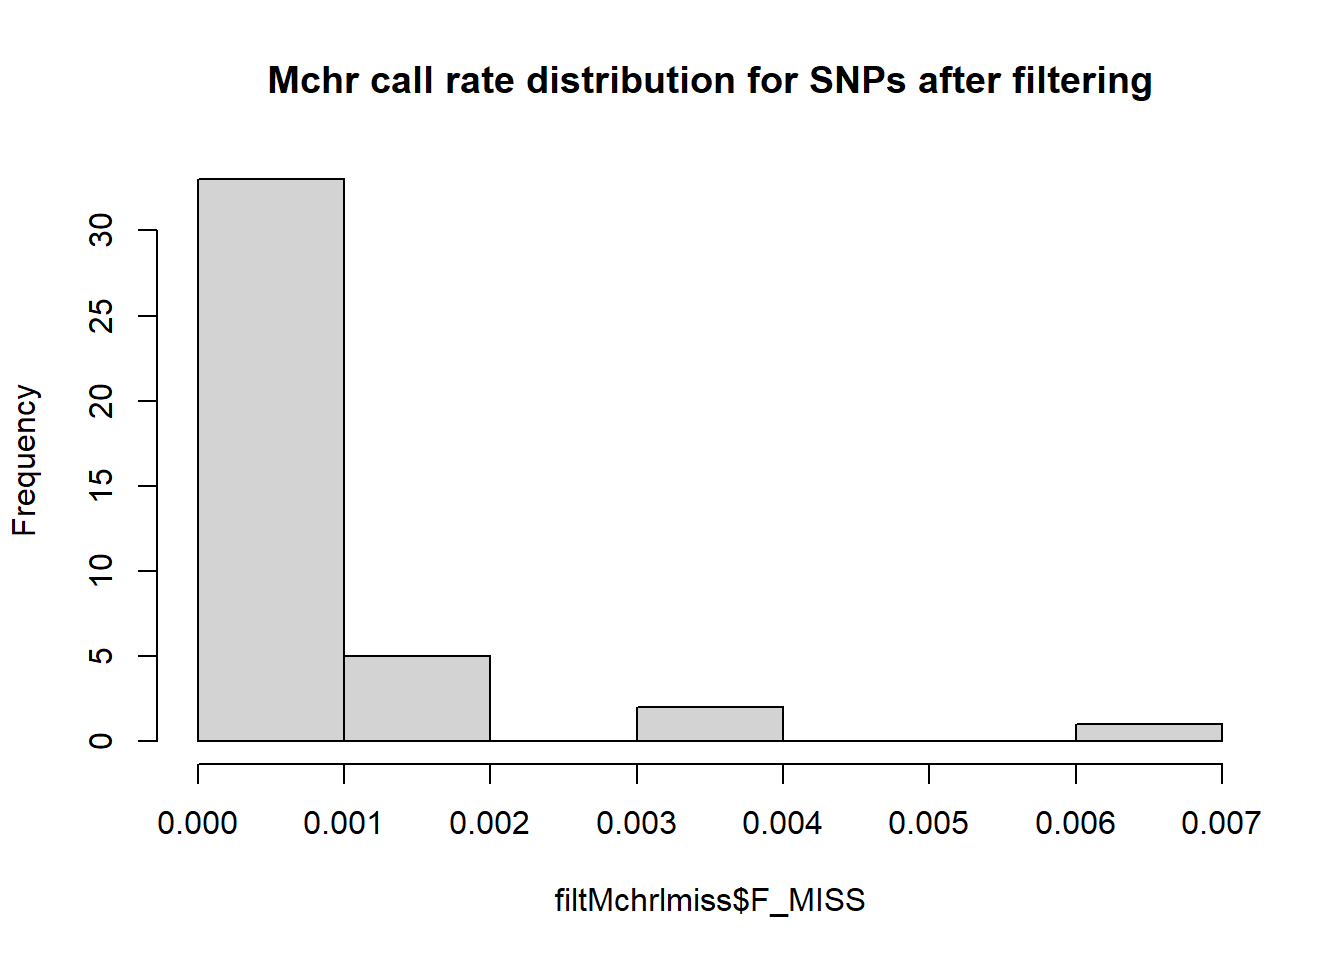
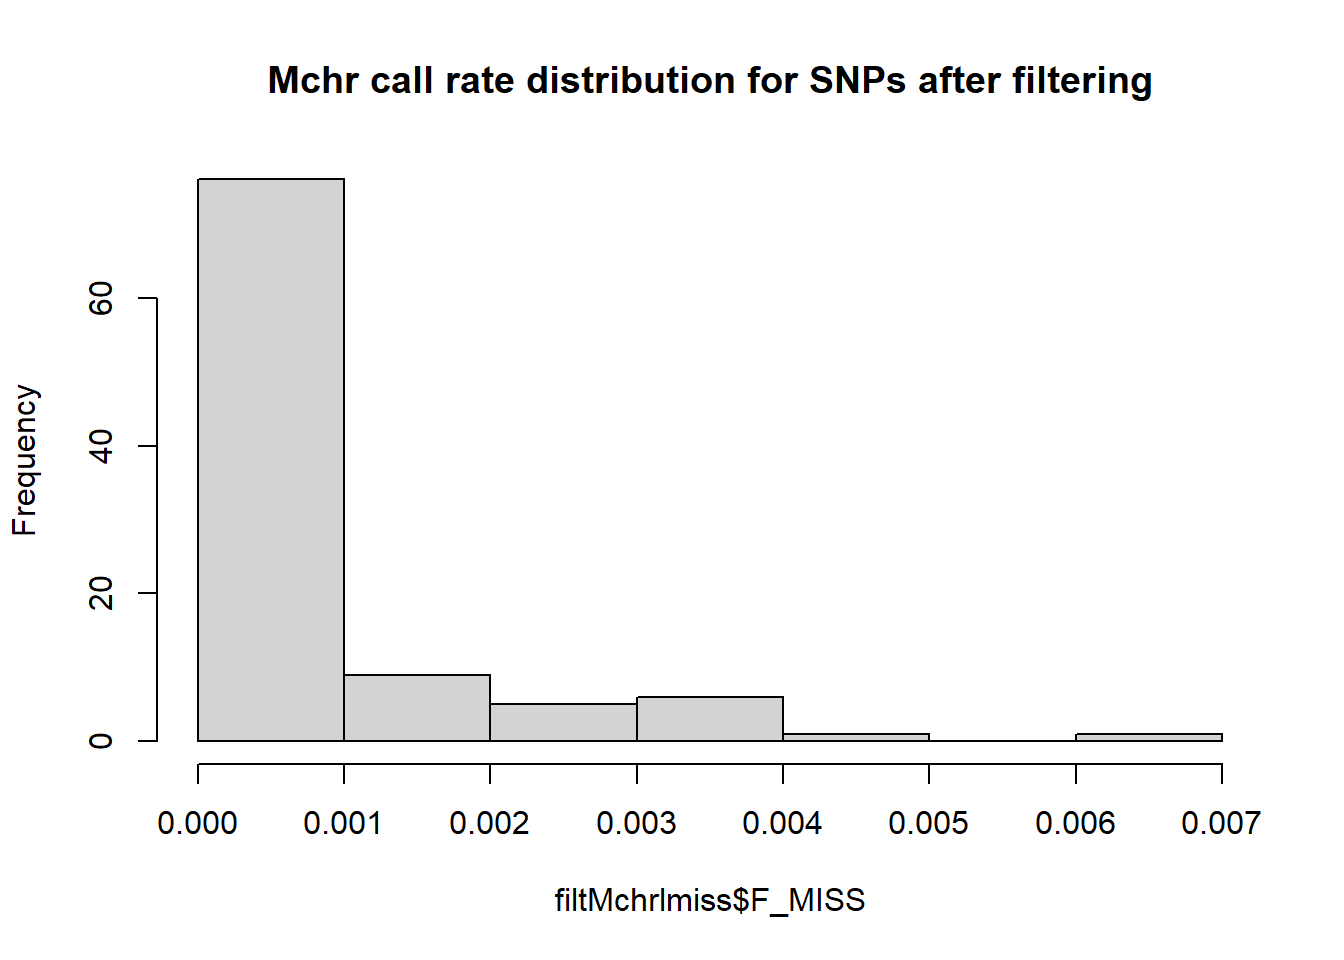
Build site.

diff --git a/docs/missing_filt.html b/docs/missing_filt.html
@@ -11,7 +11,7 @@
 
 <meta name="author" content="Daniel Araujo" />
 
-<meta name="date" content="2020-11-23" />
+<meta name="date" content="2020-11-30" />
 
 <title>Missingness Filtering</title>
 
@@ -388,7 +388,7 @@ div.tocify {
 
 <h1 class="title toc-ignore">Missingness Filtering</h1>
 <h4 class="author">Daniel Araujo</h4>
-<h4 class="date">2020-11-23</h4>
+<h4 class="date">2020-11-30</h4>
 
 </div>
 
@@ -413,7 +413,7 @@ div.tocify {
 <div class="tab-content">
 <div id="summary" class="tab-pane fade in active">
 <p>
-<strong>Last updated:</strong> 2020-11-23
+<strong>Last updated:</strong> 2020-11-30
 </p>
 <p>
 <strong>Checks:</strong> <span class="glyphicon glyphicon-ok text-success" aria-hidden="true"></span> 7 <span class="glyphicon glyphicon-exclamation-sign text-danger" aria-hidden="true"></span> 0
@@ -504,16 +504,16 @@ This reproducible <a href="http://rmarkdown.rstudio.com">R Markdown</a> analysis
 <div class="panel panel-default">
 <div class="panel-heading">
 <p class="panel-title">
-<a data-toggle="collapse" data-parent="#workflowr-checks" href="#strongRepositoryversionstrongahrefhttpsgithubcomdanielsarjChrXYMProjecttree0f33384fb94d1563a130bc3277aca84e72a6fbc0targetblank0f33384a"> <span class="glyphicon glyphicon-ok text-success" aria-hidden="true"></span> <strong>Repository version:</strong> <a href="https://github.com/danielsarj/ChrXYM_Project/tree/0f33384fb94d1563a130bc3277aca84e72a6fbc0" target="_blank">0f33384</a> </a>
+<a data-toggle="collapse" data-parent="#workflowr-checks" href="#strongRepositoryversionstrongahrefhttpsgithubcomdanielsarjChrXYMProjecttreed1d885e882ebdb898db21096a5d9df7ea7b80625targetblankd1d885ea"> <span class="glyphicon glyphicon-ok text-success" aria-hidden="true"></span> <strong>Repository version:</strong> <a href="https://github.com/danielsarj/ChrXYM_Project/tree/d1d885e882ebdb898db21096a5d9df7ea7b80625" target="_blank">d1d885e</a> </a>
 </p>
 </div>
[2 lines of base64/hex data omitted]
 <div class="panel-body">
 <p>
 Great! You are using Git for version control. Tracking code development and connecting the code version to the results is critical for reproducibility.
 </p>
 <p>
-The results in this page were generated with repository version <a href="https://github.com/danielsarj/ChrXYM_Project/tree/0f33384fb94d1563a130bc3277aca84e72a6fbc0" target="_blank">0f33384</a>. See the <em>Past versions</em> tab to see a history of the changes made to the R Markdown and HTML files.
+The results in this page were generated with repository version <a href="https://github.com/danielsarj/ChrXYM_Project/tree/d1d885e882ebdb898db21096a5d9df7ea7b80625" target="_blank">d1d885e</a>. See the <em>Past versions</em> tab to see a history of the changes made to the R Markdown and HTML files.
 </p>
 <p>
 Note that you need to be careful to ensure that all relevant files for the analysis have been committed to Git prior to generating the results (you can use <code>wflow_publish</code> or <code>wflow_git_commit</code>). workflowr only checks the R Markdown file, but you know if there are other scripts or data files that it depends on. Below is the status of the Git repository when the results were generated:
@@ -562,6 +562,40 @@ Message
 </tr>
 </thead>
 <tbody>
+<tr>
+<td>
+Rmd
+</td>
+<td>
+<a href="https://github.com/danielsarj/ChrXYM_Project/blob/d1d885e882ebdb898db21096a5d9df7ea7b80625/analysis/missing_filt.Rmd" target="_blank">d1d885e</a>
+</td>
+<td>
+Daniel Araujo
+</td>
+<td>
+2020-11-30
+</td>
+<td>
+Update MAF filter value
+</td>
+</tr>
+<tr>
+<td>
+html
+</td>
+<td>
+<a href="https://rawcdn.githack.com/danielsarj/ChrXYM_Project/ee79547dfd942a946c1cf047f681bc914f1bc644/docs/missing_filt.html" target="_blank">ee79547</a>
+</td>
+<td>
+Daniel Araujo
+</td>
+<td>
+2020-11-23
+</td>
+<td>
+Build site.
+</td>
+</tr>
 <tr>
 <td>
 Rmd
@@ -643,8 +677,8 @@ Start project
 </div>
 <div id="variants-filtering" class="section level2">
 <h2>2. Variants filtering</h2>
-<pre class="r"><code>plink --bfile MESA_nonauto --geno 0.01 --maf 0.05 --make-bed --out MESA_missfilt</code></pre>
-<p>New bim/bed/fam files were generated filtering out variants with missing call rates above 0.01 and minor allele frequency below 0.05. 1113 and 6593 variants were removed due to missing call rate and minor allele frequency threshold, respectively. 29560 variants were left.</p>
+<pre class="r"><code>plink --bfile MESA_nonauto --geno 0.01 --maf 0.01 --make-bed --out MESA_missfilt</code></pre>
+<p>New bim/bed/fam files were generated filtering out variants with missing call rates above 0.01 and minor allele frequency below 0.01. 1113 and 1675 variants were removed due to missing call rate and minor allele frequency threshold, respectively. 34478 variants were left.</p>
 <hr />
 </div>
 <div id="new-missingness-rate-statistics" class="section level2">
